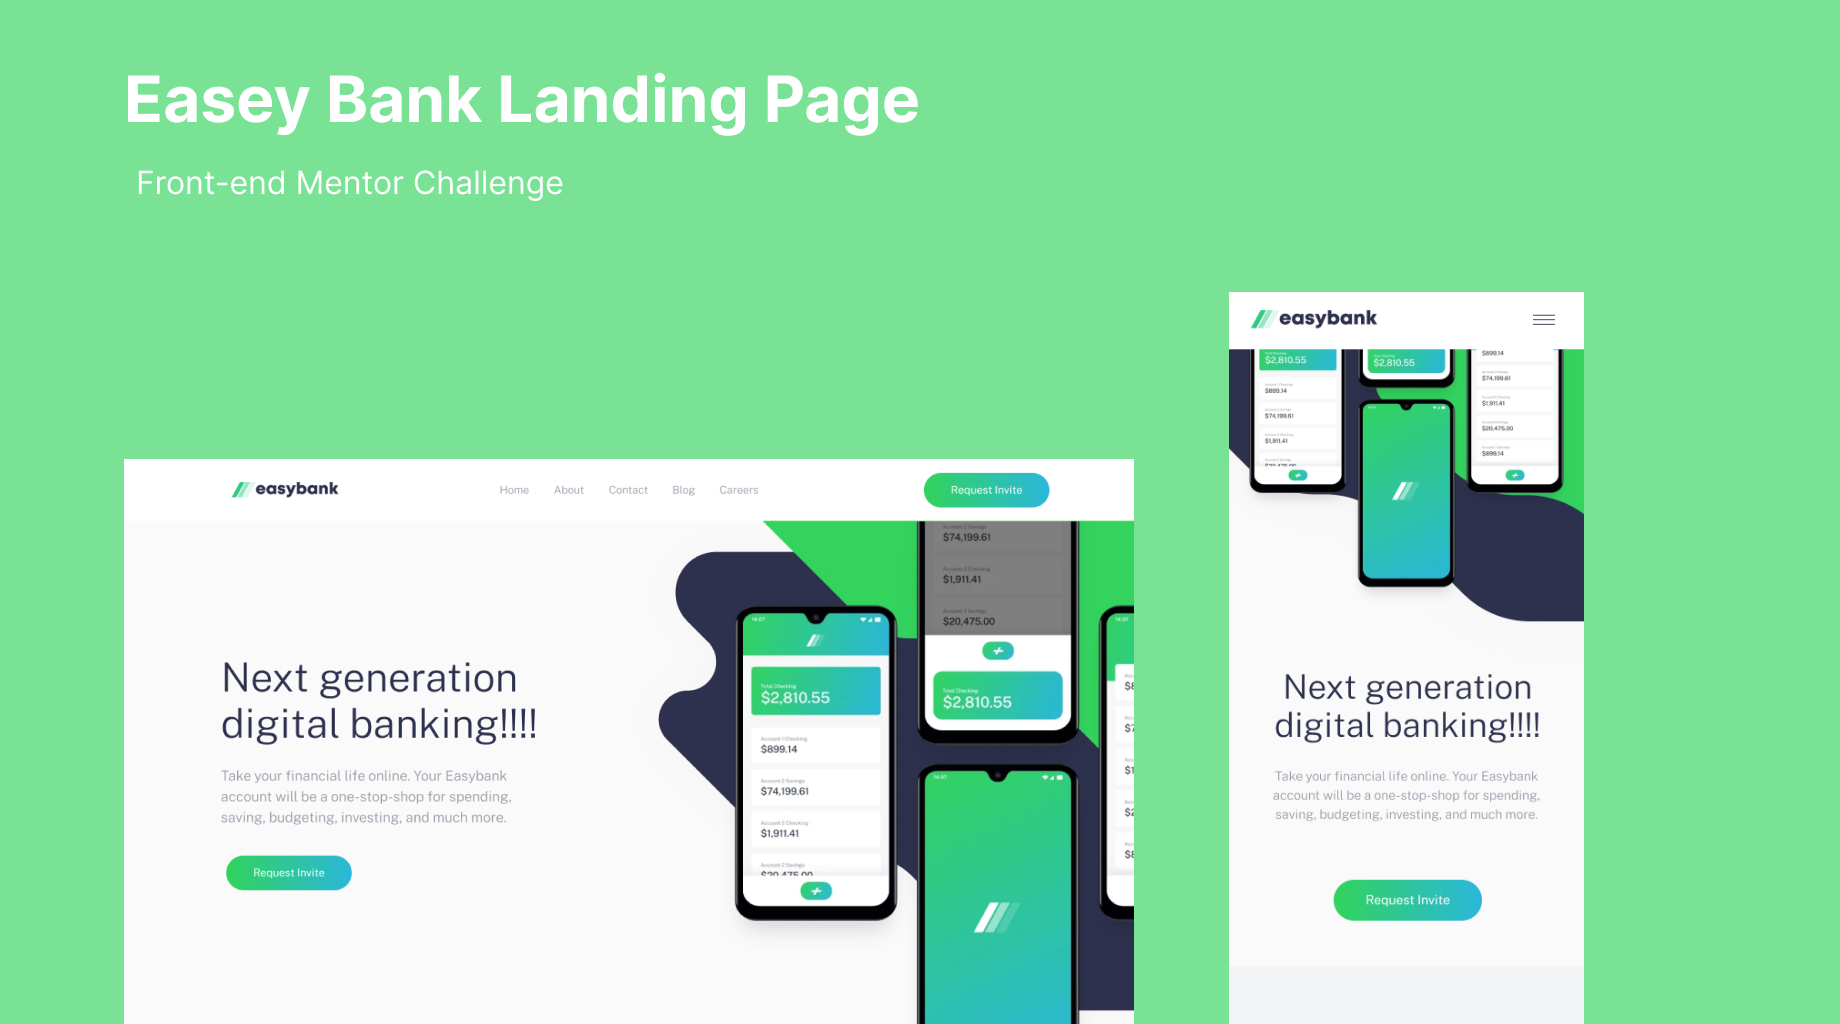
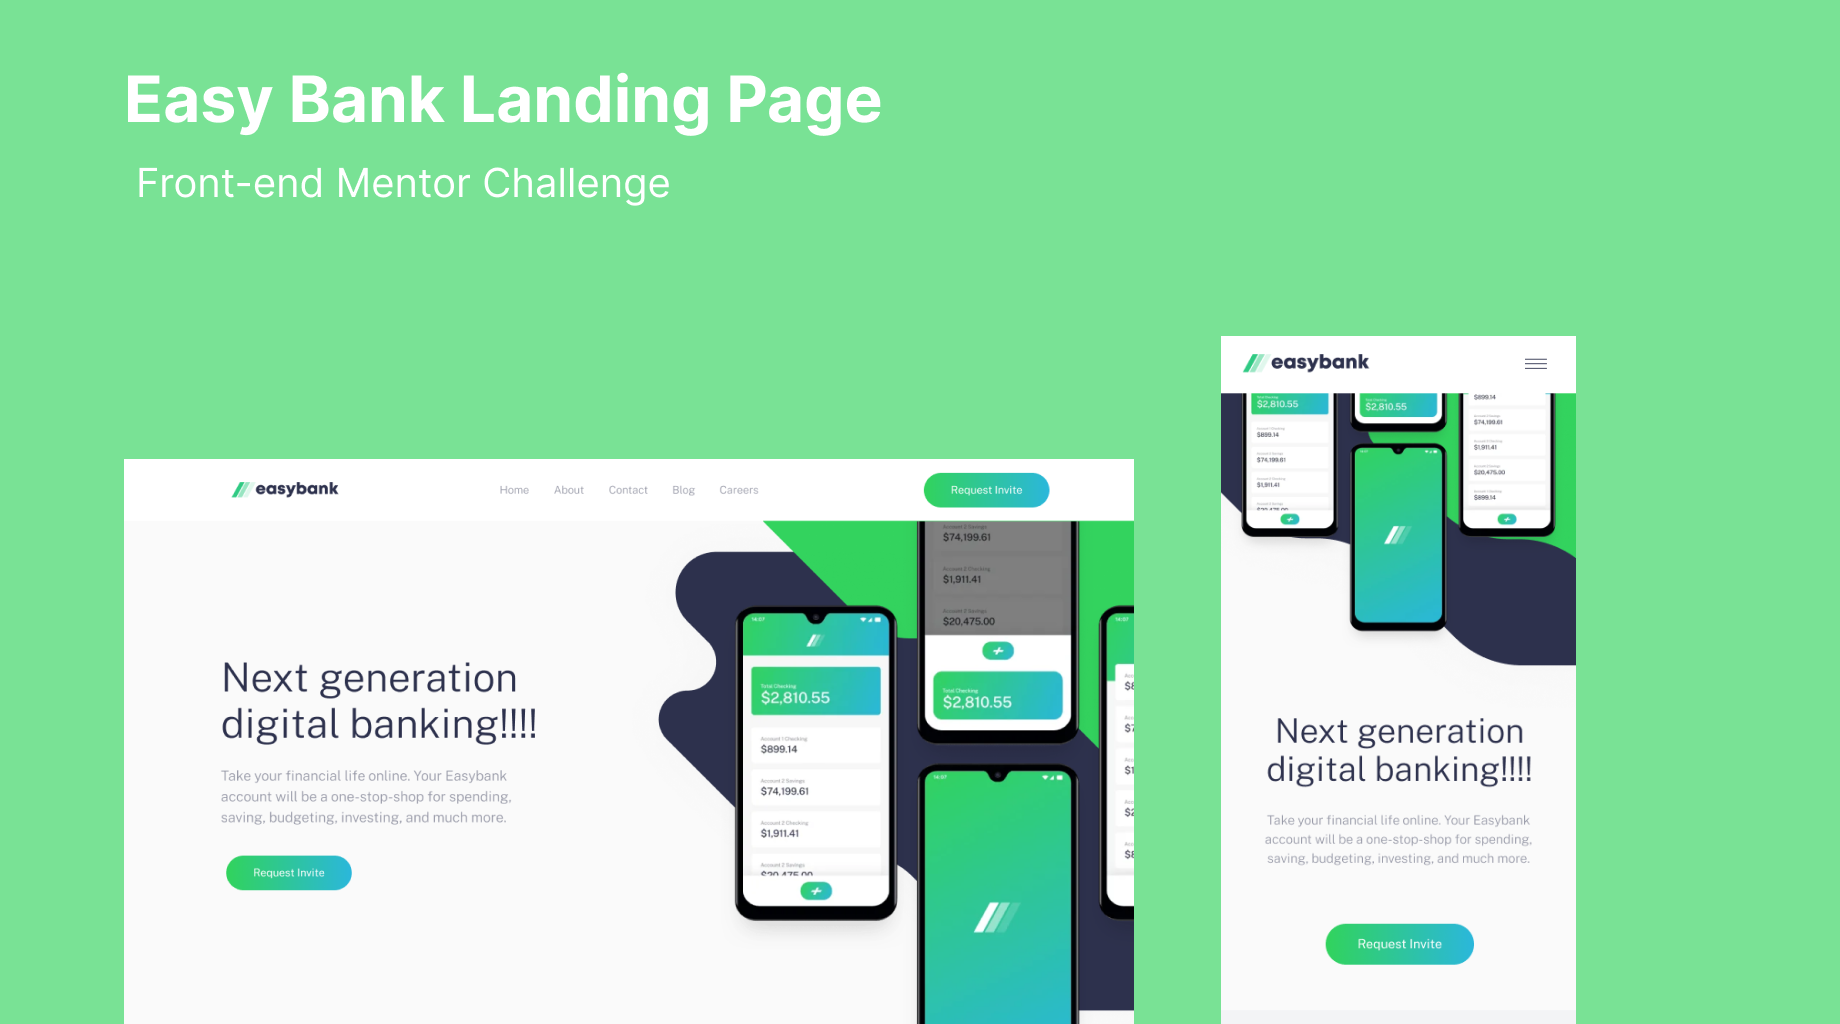
doc: adding more information about guidelies

Changed region(s): [[0.6505, 0.2812, 0.8674, 1.0], [0.1239, 0.0625, 0.4957, 0.1562], [0.062, 0.1562, 0.3717, 0.2188]]

diff --git a/src/styles/global.css b/src/styles/global.css
@@ -17,3 +17,5 @@
 
   font-size: 62.5%;
 }
+
+

diff --git a/docs/style-guide.md b/docs/style-guide.md
@@ -1,4 +1,5 @@
 # Front-end Style Guide
+Thank you for your interest in contributing to this project! All contributions are welcome and we appreciate your time and effort. We use CSS without any framework or library to style this application Here you will find the information about the styles in this application. 
 
 ## Layout
 
@@ -8,19 +9,20 @@ The designs were created to the following widths:
 - Desktop: 1440px
 
 ## Colors
+This application uses a specific color palette to maintain consistency throughout the design. Here are the colors we use:
 
 ### Primary
 
-- Dark Blue: hsl(233, 26%, 24%)
-- Lime Green: hsl(136, 65%, 51%)
-- Bright Cyan: hsl(192, 70%, 51%)
+- --dark-blue: hsl(233, 26%, 24%)
+- --lime-green: hsl(136, 65%, 51%)
+- --bright-cyan: hsl(192, 70%, 51%)
 
 ### Neutral
 
-- Grayish Blue: hsl(233, 8%, 62%)
-- Light Grayish Blue: hsl(220, 16%, 96%)
-- Very Light Gray: hsl(0, 0%, 98%)
-- White: hsl(0, 0%, 100%)
+- --grayish-blue: hsl(233, 8%, 62%)
+- --light-grayish-blue: hsl(220, 16%, 96%)
+- --very-light-gray: hsl(0, 0%, 98%)
+- --white: hsl(0, 0%, 100%)
 
 ## Typography
 
@@ -31,4 +33,8 @@ The designs were created to the following widths:
 ### Font
 
 - Family: [Public Sans](https://fonts.google.com/specimen/Public+Sans)
-- Weights: 300, 400, 700  
+- Weights: 300, 400, 700 
+
+## Conclusion
+
+Thank you for taking the time to read and follow this style-guide. You can view the project layout for more style information by clicking on [this Link](https://www.figma.com/community/file/1238393827801856905/Easybank-landing-page). It's necessary to have [Figma](https://www.figma.com/) account to acess it.

diff --git a/docs/CONTRIBUTING.md b/docs/CONTRIBUTING.md
@@ -7,15 +7,15 @@ To get started with contributing to our project, please follow these steps:
 
 1. Fork the repository.
 1. Clone the repository locally.
-2. Create a new branch based on develop branch for your changes. The branch name should start with one of the following prefixes, depending on the type of changes you are making:
+2. Create a new branch for your changes. The branch name should start with one of the following prefixes, depending on the type of changes you are making:
     - <strong>feat/</strong> for new features
     - <strong>fix/</strong> for bug fixes
     - <strong>docs/</strong> for documentation changes
     - <strong>style/</strong> for changes that do not affect the meaning of the code (e.g. formatting)
     - <strong>refactor/</strong> for code changes that neither fix a bug nor add a feature
 4. Make your changes and commit them using Conventional Commits.
-5. Push your changes to the main repository.
-6. Create a pull request to merge your changes into the develop branch.
+5. Push your changes to your feature branch.
+6. Create a pull request.
 
 ## Conventional Commits
 We use Conventional Commits to standardize our commit messages. Please follow the guidelines below when making your commits:

diff --git a/README.md b/README.md
@@ -2,19 +2,20 @@
 
   # Easy Bank Landing Page
 
-  <img src="./github/capa.png">
+  <img src="github/Capa.png">
 </div>
 
 
-## About
-This is a challenge from Front-end Mentor that will provide ypu a nice test for your layout solve. 
-<br> 
-I decided to start this project with friends so that we can learn more about how to contribute to open source projects and we see this as a great opportunity to test, practice and improve our ability to work as a team.
 ## Table of Contents
 
 - [Project Structure](./docs/project-structure.md)
 - [Style Guide](./docs/style-guide.md)
 - [Contributing Guidelines](./docs/CONTRIBUTING.md)
+
+## About
+This is a challenge from Front-end Mentor that will provide ypu a nice test for your layout solve. 
+<br> 
+I decided to start this project with friends so that we can learn more about how to contribute to open source projects and we see this as a great opportunity to test, practice and improve our ability to work as a team.
 
 ## Layout
 

diff --git a/docs/project-structure.md b/docs/project-structure.md
@@ -2,11 +2,16 @@
 
 The following document is an overview of the main directories and files in the project:
 
+- `public/`: contains the public assets for the application
 - `src/`: contains the all files for the application
 - `src/styles`: contains all CSS application files to sytle the application
 - `src/script`: contains all JavaScript application files
 - `src/assets`: contains the  assets (e.g. images, fonts) used in the application.
 - `README.md`: contains the project overview and setup instructions.
+
+## Public
+
+The `public/` directory contains public asses used in the application (favicon.ico):
 
 ## Src
 
